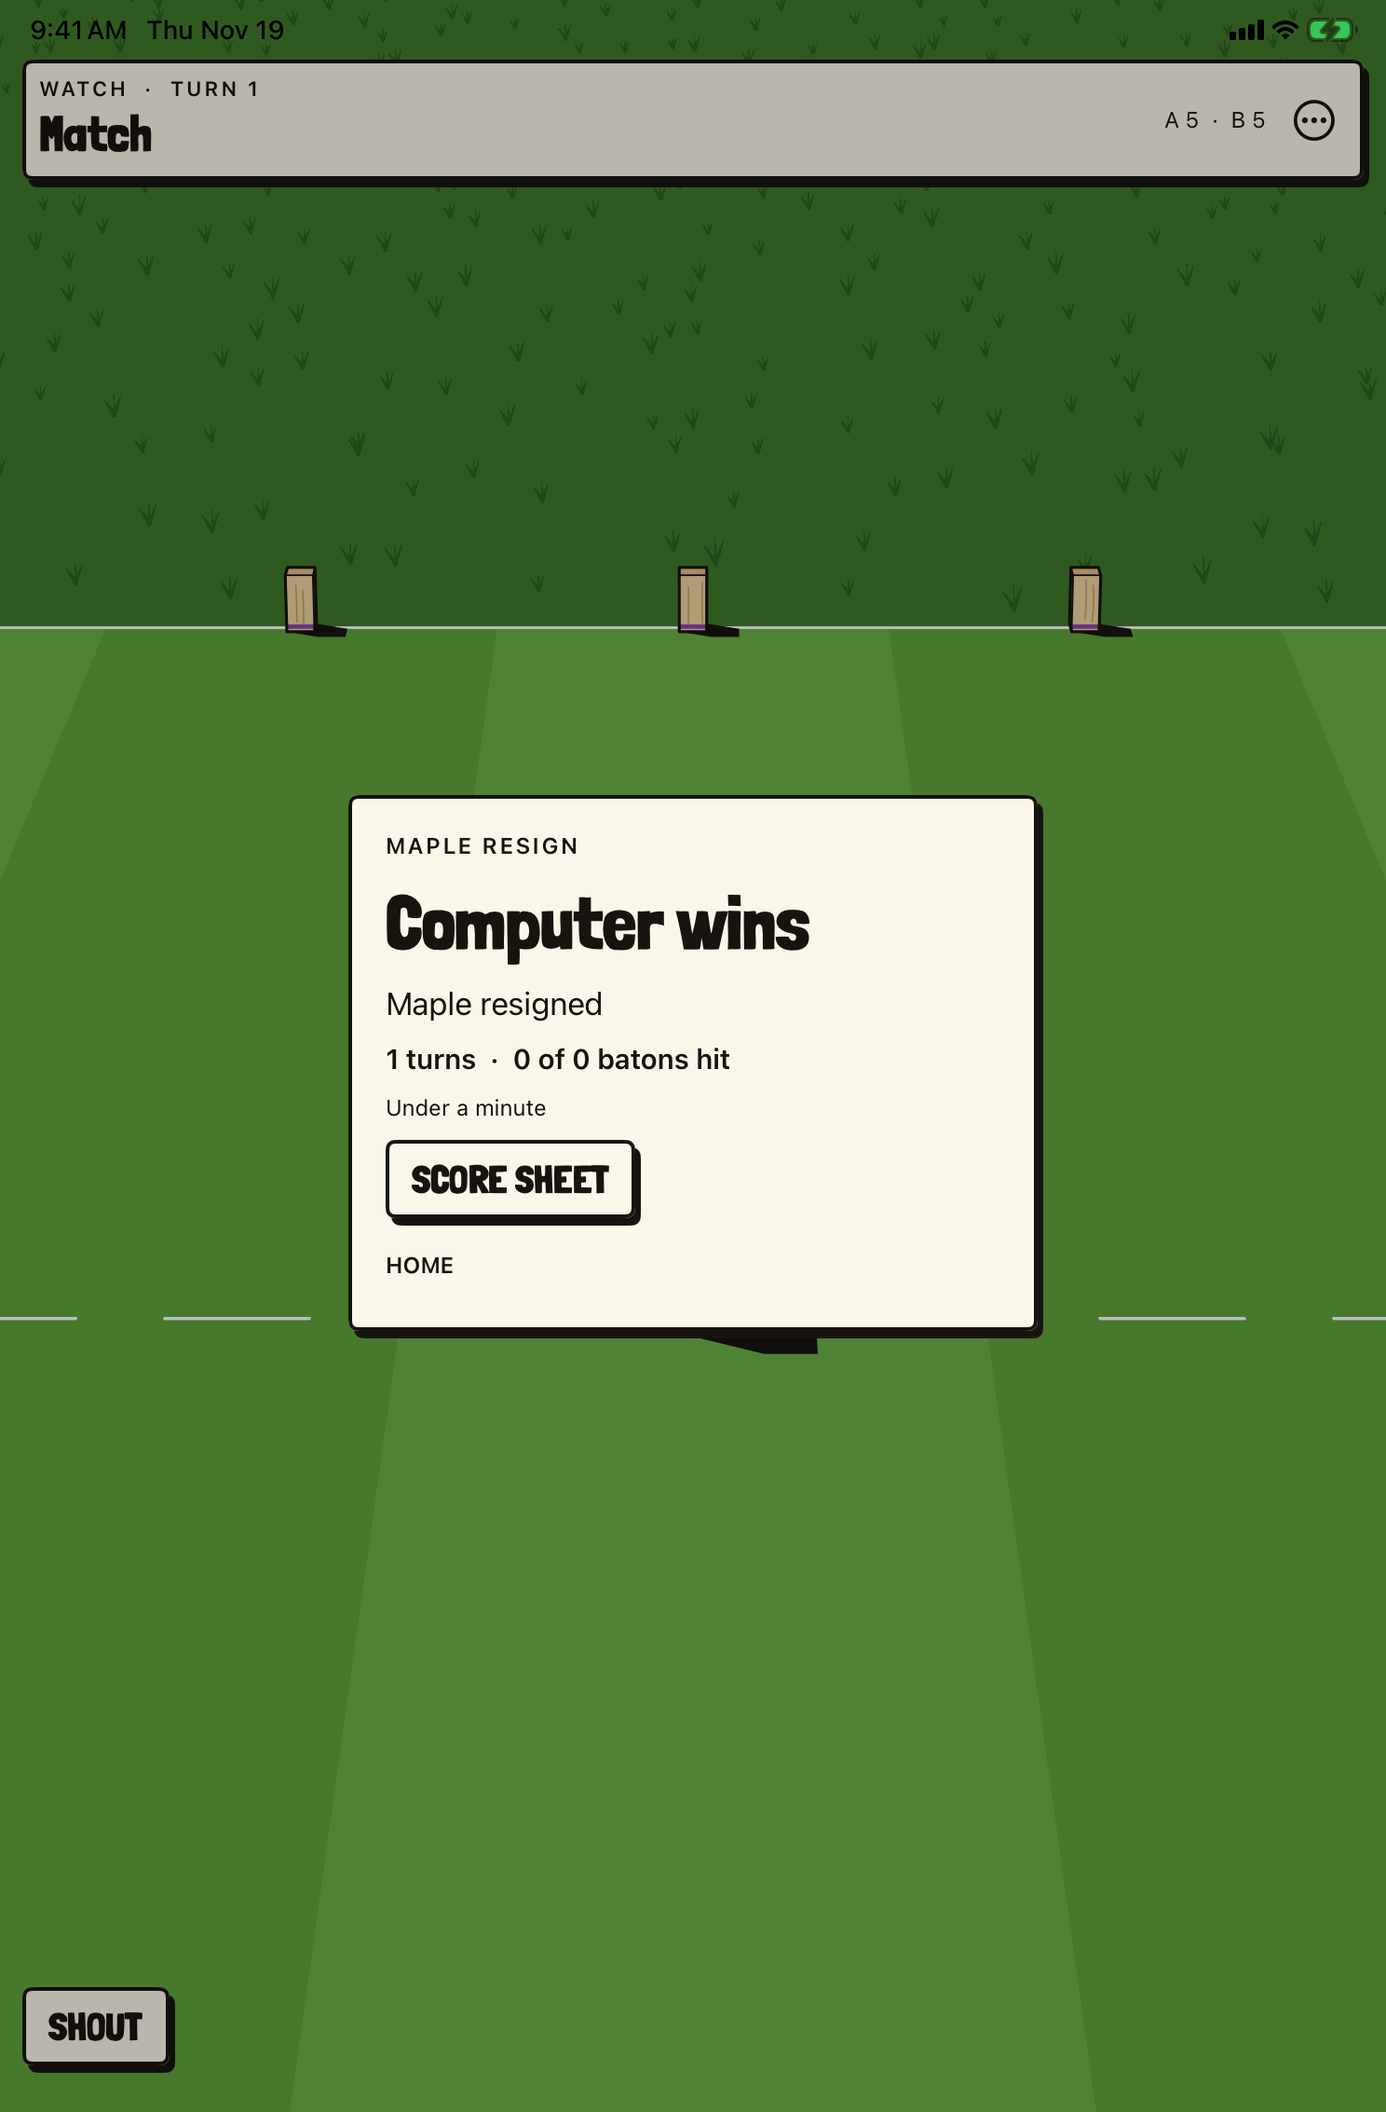
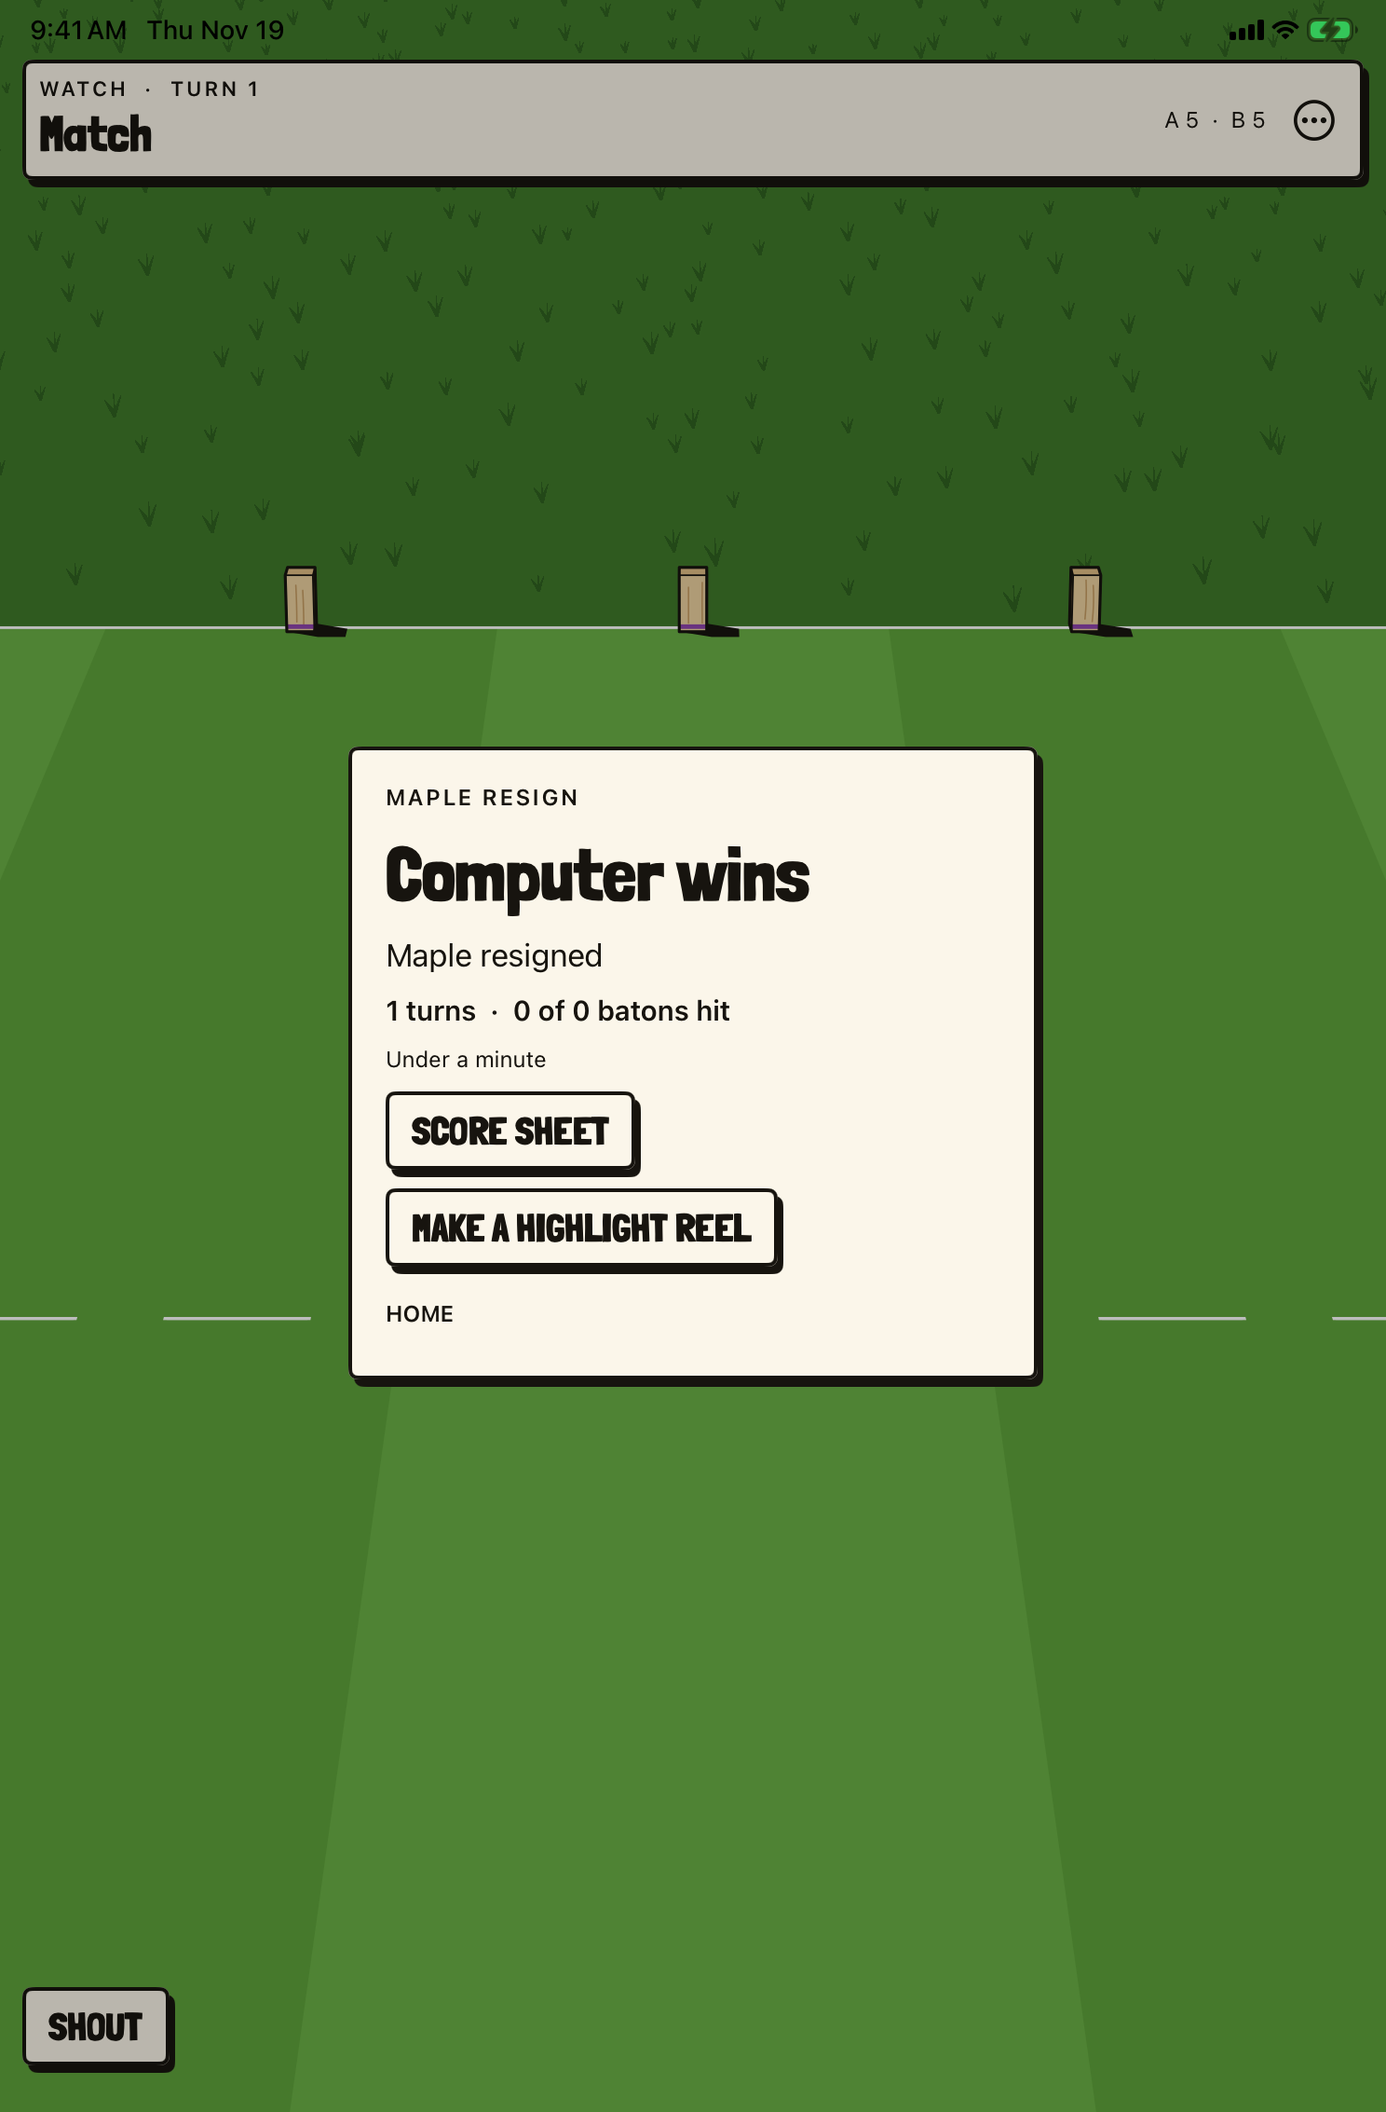
Reel: review pictures and docs
tools/reel-snapshots.py shows every reel card state on both review
phones, and the shapes turned and on both iPads. The online winner
pictures now show the button. docs/ONLINE.md describes the reel,
MATCH.md the solo seam, DISTRIBUTION.md the add-only photo string.

Changed region(s): [[0.2473, 0.3398, 0.7728, 0.6796]]

diff --git a/tools/reel-snapshots.py b/tools/reel-snapshots.py
@@ -1,0 +1,135 @@
+"""The highlight reel card in each of its states, on the review phones and iPads.
+
+The app shows the card over a finished match (the solo "over" fixture) with no
+network: REEL_REVIEW names the state and the card's server is a stand-in
+(ReelCard.swift). The done state plays a real reel, paused on one frame: pass
+--videos, a directory holding one <name>-tall.mp4 and <name>-wide.mp4 made by
+the web's renderer (in a copy of the web checkout, never the checkout itself):
+
+  node tools/reel/render.mjs --replay tests/fixtures/replay-north-south.json --out <dir>
+
+--landscape left|right turns the interface (an iPad turns as a device) and
+names the pictures <device>-landscape-<state>.png.
+"""
+import argparse
+import concurrent.futures
+import json
+import os
+from pathlib import Path
+import shutil
+import subprocess
+import sys
+import time
+
+sys.dont_write_bytecode = True  # no __pycache__ in tools/
+from review_turn import is_ipad, turn as turn_device
+
+ROOT = Path(__file__).resolve().parents[1]
+# Every state on the phones held upright; the ones whose shape changes with the
+# window (the bar, the video, a problem with its button) also turned and on iPads.
+STATES = ("making done failed notthistime offline empty busy engine unavailable toomany "
+          "noreplay").split()
+SHAPES = ["making", "done", "failed", "offline"]
+APP = "com.throwingwood.app"
+DEVICES = {
+    "iPhone 16e": "iphone-16e", "iPhone 17 Pro Max": "iphone-17-pro-max",
+    "iPad mini (A17 Pro)": "ipad-mini", "iPad Pro 13-inch (M5)": "ipad-pro-13",
+}
+PHONES = ["iPhone 16e", "iPhone 17 Pro Max"]
+IPADS = ["iPad mini (A17 Pro)", "iPad Pro 13-inch (M5)"]
+
+
+def sim(*args, **kwargs):
+    return subprocess.run(["xcrun", "simctl", *args], check=True, **kwargs)
+
+
+def states_for(phone, args):
+    if args.only:
+        return [s for s in STATES if s in args.only]
+    return STATES if not args.landscape and not is_ipad(phone) else SHAPES
+
+
+def capture(phone, args):
+    devices = json.loads(sim("list", "devices", "available", "-j", capture_output=True).stdout)
+    device = next(d for d in devices["devices"]["com.apple.CoreSimulator.SimRuntime.iOS-26-2"]
+                  if d["name"] == phone)
+    udid = device["udid"]
+    boot = device["state"] == "Shutdown"
+    if boot:
+        sim("boot", udid)
+    try:
+        sim("bootstatus", udid, "-b", stdout=subprocess.DEVNULL)
+        sim("install", udid, str(args.app))
+        sim("status_bar", udid, "override", "--time", "9:41", "--batteryState", "charged",
+            "--batteryLevel", "100", "--cellularBars", "4", "--wifiBars", "3")
+        tmp = Path(sim("get_app_container", udid, APP, "data", capture_output=True,
+                       text=True).stdout.strip()) / "tmp"
+        shutil.copyfile(ROOT / "ThrowingWoodKit/Tests/KubbRendererTests/Fixtures/solo/over.json",
+                        tmp / "review-solo.json")
+        for f in ("tall", "wide"):
+            shutil.copyfile(next(args.videos.glob(f"*-{f}.mp4")), tmp / f"review-reel-{f}.mp4")
+        if is_ipad(phone):
+            turn_device(udid, args.landscape)  # an iPad turns as a device, not from the app
+        prefix = DEVICES[phone] + ("-landscape" if args.landscape else "")
+        turn = {"SIMCTL_CHILD_REVIEW_ORIENTATION": args.landscape} if args.landscape else {}
+        for state in states_for(phone, args):
+            ready = tmp / "review-ready"
+            ready.unlink(missing_ok=True)
+            sim("launch", "--terminate-running-process", udid, APP, "-pitch.throwsMade", "9",
+                env={**os.environ, **turn, "SIMCTL_CHILD_REEL_REVIEW": state},
+                stdout=subprocess.DEVNULL)
+            deadline = time.monotonic() + 30
+            while not ready.exists() or ready.read_text() != "reel-" + state:
+                if time.monotonic() > deadline:
+                    raise RuntimeError(f"{phone} did not reach {state}")
+                time.sleep(0.1)
+            time.sleep(0.7)  # the launch transition and SwiftUI's transaction
+            file = args.out / f"{prefix}-{state}.png"
+            sim("io", udid, "screenshot", str(file), capture_output=True)
+            if args.landscape:
+                upright(file, args.landscape)
+            print(f"{phone} {state}", flush=True)
+    finally:
+        sim("status_bar", udid, "clear")
+        subprocess.run(["xcrun", "simctl", "terminate", udid, APP], capture_output=True)
+        if is_ipad(phone) and args.landscape:
+            turn_device(udid, None)
+        if boot:
+            sim("shutdown", udid)
+
+
+def upright(file, way):
+    """simctl captures a phone's display as it is mounted: turn the picture the
+    way the interface turned (solo-snapshots.py)."""
+    out = subprocess.run(["sips", "-g", "pixelWidth", "-g", "pixelHeight", str(file)],
+                         capture_output=True, text=True, check=True).stdout.split()
+    w, h = int(out[out.index("pixelWidth:") + 1]), int(out[out.index("pixelHeight:") + 1])
+    if h > w:
+        subprocess.run(["sips", "-r", "90" if way == "left" else "270", str(file)],
+                       capture_output=True, check=True)
+
+
+if __name__ == "__main__":
+    parser = argparse.ArgumentParser(description=__doc__, formatter_class=argparse.RawDescriptionHelpFormatter)
+    parser.add_argument("app", type=Path)
+    parser.add_argument("--videos", type=Path, required=True)
+    parser.add_argument("--out", type=Path, default=ROOT / "build/reel-snapshots")
+    parser.add_argument("--capture-only", action="store_true")
+    parser.add_argument("--only", type=lambda v: set(v.split(",")), default=None,
+                        help="comma-separated states (implies --capture-only)")
+    parser.add_argument("--phone", action="append", choices=list(DEVICES),
+                        help="one review device (repeatable)")
+    parser.add_argument("--ipad", action="store_true", help="the two review iPads, not the phones")
+    parser.add_argument("--landscape", choices=["left", "right"])
+    args = parser.parse_args()
+    args.out.mkdir(parents=True, exist_ok=True)
+    phones = args.phone or (IPADS if args.ipad else PHONES)
+    if args.only:
+        args.capture_only = True
+    with concurrent.futures.ThreadPoolExecutor(max_workers=2) as pool:
+        list(pool.map(lambda phone: capture(phone, args), phones))
+    if not args.capture_only:
+        tag = "-landscape" if args.landscape else ""
+        names = [f"{DEVICES[p]}{tag}-{s}.png" for p in phones for s in states_for(p, args)]
+        subprocess.run(["swift", str(ROOT / "tools/check-snapshots.swift"),
+                        str(ROOT / "docs/review/reel"), str(args.out), *names], check=True)

diff --git a/docs/ONLINE.md b/docs/ONLINE.md
@@ -42,6 +42,70 @@ checks the hash, and plays its recording using showAt. A gap or disagreement
 restores the room snapshot. After a win the host can put everyone back in
 the lobby with the same teams.
 
+## The highlight reel
+
+When the finished match has a kept replay (`PitchController.finishedWithReplay`:
+the engine's `room.replayOf` is not null, the same test as the web's WATCH
+REPLAY), the winner card adds a button, MAKE A HIGHLIGHT REEL. It opens the reel
+card (`ReelCard.swift`), which holds a pitch code and nothing else
+(`HighlightReel` in KubbRenderer), so a solo match can use it once a solo match
+has a code; solo has no button yet. The web's docs/REEL.md "The iPhone" is the
+contract and its words are the card's (`ReelWords`).
+
+- The card asks the rooms server with a `reel` request on a short-lived socket
+  of its own (docs/ROOMS-CLIENT.md). The request carries the pitch code only.
+- While the server renders, the card says MAKING YOUR REEL with a slow bar and
+  "About a minute. You can keep watching.", and asks again every 5 seconds while
+  the card is on screen. BACK or the app going to the background stops the
+  asking; showing the card again asks once and goes on. There is no push
+  notification. A poll that goes unanswered is asked again, three in a row is No
+  connection. The winner card's button reads MAKING YOUR REEL meanwhile and
+  WATCH THE REEL once it is done.
+- Done, the tall MP4 is downloaded to Caches (`reels/<code>/<v>-<tag>/`), and the
+  wide one too when the window is wider than tall. iOS may empty Caches; the
+  card downloads again when it is shown. The video plays muted and looping, wide
+  in a window wider than tall and tall otherwise.
+- SHARE gives the system share sheet the tall file, named
+  `throwing-wood-<code>-tall.mp4`. Save Video there adds it to Photos, which is
+  why Info.plist carries an add-only `NSPhotoLibraryAddUsageDescription`; the app
+  never reads the library. COPY LINK copies `https://throwingwood.com/p/<code>`.
+  A success haptic marks the reel arriving, when HAPTICS is on.
+- Every other answer is said plainly: no connection (nothing is sent while the
+  device has no network path; TRY AGAIN), could not be made (TRY AGAIN once, then
+  "Not this time"), no highlights, another version of the game, busy today, not
+  available, too many at once, and no replay. TRY AGAIN sends one more request:
+  after the server could not start the render it may start it; after a render
+  that failed the server keeps that result for the version and renderer look, so
+  the second answer is the same and the card says Not this time.
+
+Review pictures: `python3 tools/reel-snapshots.py <simulator-app> --videos <dir>`
+shows the card over a finished match with a stand-in server (simulator only;
+`<dir>` holds a tall and a wide MP4 from the web's renderer, run in a copy of the
+web checkout). Every state on both phones upright; making, done, failed and
+offline also turned (`--landscape right` for the 16e, `left` for the Pro Max) and
+on both iPads upright and turned (`--ipad`, `--ipad --landscape left`). An iPad
+lays the card out from its window's shape, so upside down and turned right give
+the same pictures as upright and turned left.
+
+| State | Small iPhone | Large iPhone |
+| --- | --- | --- |
+| Making | [16e](review/reel/iphone-16e-making.png) | [17 Pro Max](review/reel/iphone-17-pro-max-making.png) |
+| Done | [16e](review/reel/iphone-16e-done.png) | [17 Pro Max](review/reel/iphone-17-pro-max-done.png) |
+| Done, on its side | [16e](review/reel/iphone-16e-landscape-done.png) | [17 Pro Max](review/reel/iphone-17-pro-max-landscape-done.png) |
+| Could not be made | [16e](review/reel/iphone-16e-failed.png) | [17 Pro Max](review/reel/iphone-17-pro-max-failed.png) |
+| Not this time | [16e](review/reel/iphone-16e-notthistime.png) | [17 Pro Max](review/reel/iphone-17-pro-max-notthistime.png) |
+| No connection | [16e](review/reel/iphone-16e-offline.png) | [17 Pro Max](review/reel/iphone-17-pro-max-offline.png) |
+| No highlights | [16e](review/reel/iphone-16e-empty.png) | [17 Pro Max](review/reel/iphone-17-pro-max-empty.png) |
+| Another version | [16e](review/reel/iphone-16e-engine.png) | [17 Pro Max](review/reel/iphone-17-pro-max-engine.png) |
+| Busy today | [16e](review/reel/iphone-16e-busy.png) | [17 Pro Max](review/reel/iphone-17-pro-max-busy.png) |
+| Not available | [16e](review/reel/iphone-16e-unavailable.png) | [17 Pro Max](review/reel/iphone-17-pro-max-unavailable.png) |
+| Too many | [16e](review/reel/iphone-16e-toomany.png) | [17 Pro Max](review/reel/iphone-17-pro-max-toomany.png) |
+| No replay | [16e](review/reel/iphone-16e-noreplay.png) | [17 Pro Max](review/reel/iphone-17-pro-max-noreplay.png) |
+| iPad | [mini](review/reel/ipad-mini-done.png) | [Pro 13-inch, on its side](review/reel/ipad-pro-13-landscape-done.png) |
+
+The winner card with the button is the online `winner` review mode
+([16e](review/online/iphone-16e-winner.png)).
+
 ## What travels
 
 - Joining sends the code, the persistent random member ID, name, level and

diff --git a/docs/DISTRIBUTION.md b/docs/DISTRIBUTION.md
@@ -69,7 +69,7 @@ Answer **Yes** to data collection and **No** to tracking for this build. There a
 | User Content — Customer Support | App Functionality | A player can send free text: two answers about a throw, or one box of any other feedback. |
 | Diagnostics — Other Diagnostic Data | App Functionality | The report includes build, engine, viewport, time, and game state needed to reproduce the throw. |
 
-Mark all six types **linked to the user**. Records can connect the installation, pitch and typed names. Even a report with substituted member IDs can be joined back to the game by room and document version. Mark tracking **No** for each type. Ordinary aim and preset shouts are transient. The app requests no contacts, location, photos, microphone, advertising identifier or payments. Review the public privacy-policy URL and these answers against the submitted build. [Apple's privacy definitions](https://developer.apple.com/app-store/app-privacy-details/)
+Mark all six types **linked to the user**. Records can connect the installation, pitch and typed names. Even a report with substituted member IDs can be joined back to the game by room and document version. Mark tracking **No** for each type. Ordinary aim and preset shouts are transient. The app requests no contacts, location, photos, microphone, advertising identifier or payments. Its add-only `NSPhotoLibraryAddUsageDescription` is there for the share sheet's Save Video on a highlight reel; iOS asks then, and the app never reads the library. A reel request sends only the pitch code, and the video is downloaded from the site. Review the public privacy-policy URL and these answers against the submitted build. [Apple's privacy definitions](https://developer.apple.com/app-store/app-privacy-details/)
 
 The bundled `PrivacyInfo.xcprivacy` declares two required-reason categories. `CA92.1` covers the app's own UserDefaults for settings and its random member key in GameModel, GameFeedback and DeviceMemberIDStore. `35F9.1` covers elapsed time within the app. PitchAudio compares systemUptime to each sound voice's busy-until time. That clock stays on device. The report's wall-clock timestamp comes from Date. The core, Lua and musl supply game logic and math. [Apple's required reasons](https://developer.apple.com/documentation/bundleresources/app-privacy-configuration/nsprivacyaccessedapitypes/nsprivacyaccessedapitype)
 

diff --git a/docs/MATCH.md b/docs/MATCH.md
@@ -2,6 +2,8 @@
 
 The home screen opens practice or a match against the computer. PLAY THE COMPUTER resumes an unfinished solo game or opens its options. START creates a new match. REMATCH returns to the options. The match menu pauses the clock and provides level, Raising, Meter (Clock or Linear), Meter side, score sheet, home and resignation.
 
+A solo match has no highlight reel yet. The reel card (`ReelCard.swift`, `HighlightReel`) takes a pitch code and nothing else, so once a finished solo match is shared and given a code, its winner card can open the same card with `GameModel.openReel(code:match:)` (docs/ONLINE.md "The highlight reel"). It does not read the solo save.
+
 The phone can be held on its side as well as upright (Jamie, 2026-11-19: "Given we have a widescreen view for web, can we extend that to support iPhone rotated display?"). On its side the match takes the web's wide arrangement: the rail top left, MENU top right, the clock low in the Meter side corner with the plan beside it, the minimap in the other corner. The clock is always shown there, because no phone on its side has the linear meter's room. The match, its save and the engine do not know which way the phone is held. Turning it mid-gesture lets go of the dial, an aim drag, a slider or STAND with nothing sent. docs/RENDER.md "A phone on its side".
 
 ## Session contract

diff --git a/AGENTS.md b/AGENTS.md
@@ -227,6 +227,10 @@ Keep admission and seat decisions in room.*. Keep all simulator, script and revi
 sockets on 127.0.0.1. Use the numeric ROOMS_DEV_PORT for simulator review.
 Run `python3 tools/online-snapshots.py <simulator-app> --web <web checkout>`
 on both review phones. Only invented names belong in these pictures.
+The highlight reel card (`ReelCard.swift`, `HighlightReel`, the `reel` request) takes
+a pitch code only and keeps the web's docs/REEL.md words; its pictures come from
+`python3 tools/reel-snapshots.py <simulator-app> --videos <dir>` (docs/ONLINE.md
+"The highlight reel"). Never point it at production while testing.
 
 Local wire conformance and three complete cross-play matches run with
 `swift build --package-path ThrowingWoodKit --product RoomsProbe` then
